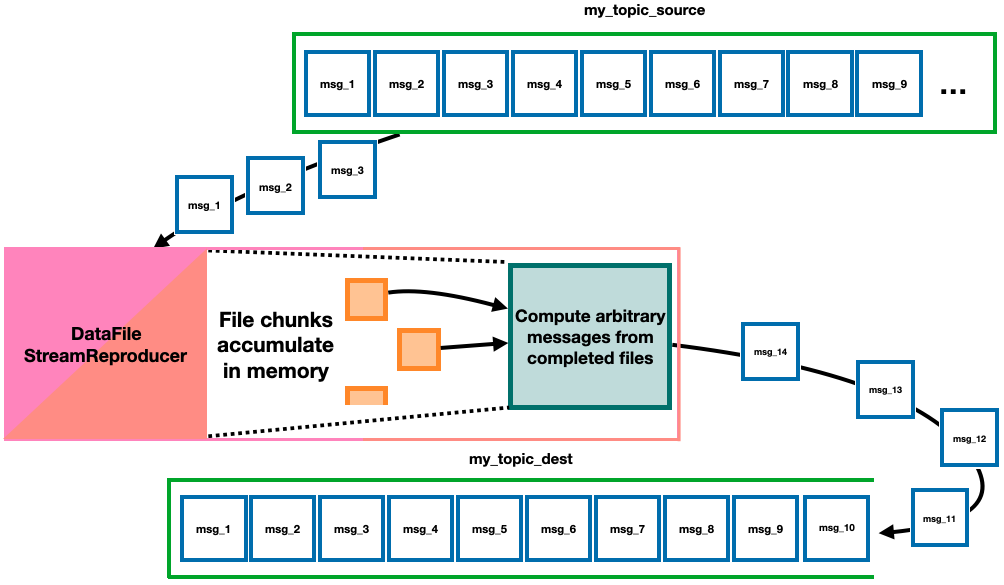
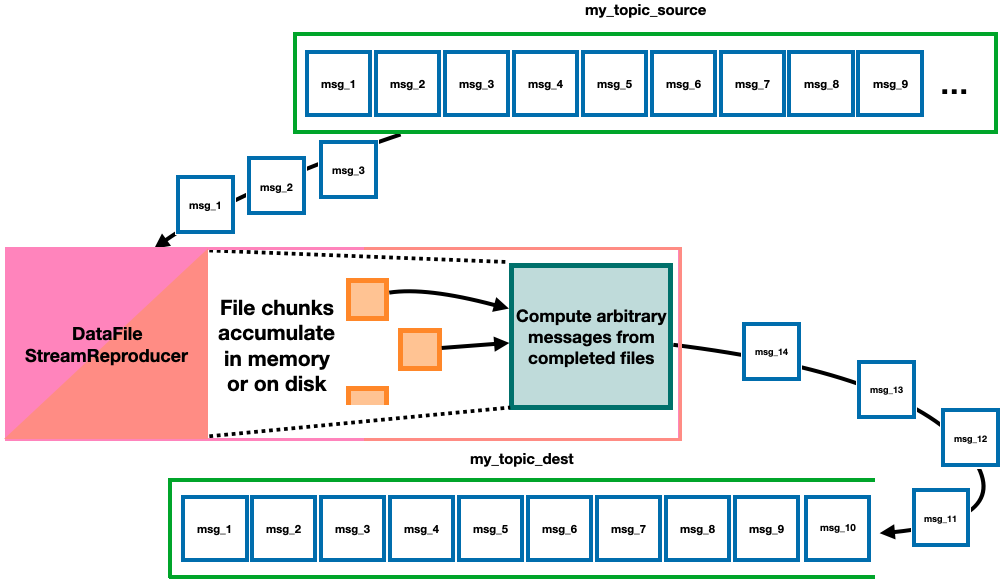
a bunch of documentation updates for the new program

diff --git a/openmsistream/girder/girder_upload_stream_processor.py b/openmsistream/girder/girder_upload_stream_processor.py
@@ -10,7 +10,40 @@ from ..utilities.config import RUN_CONST
 
 class GirderUploadStreamProcessor(DataFileStreamProcessor):
     """
-    A stream processor that adds downloaded files to folders in a Girder collection
+    A class to reconstruct data files read as messages from a topic, hold them in memory
+    or on disk, and upload them to a Girder instance when all of their messages have been
+    received
+
+    :param girder_api_url: URL of the REST API endpoint for the Girder instance to which
+        files should be uploaded
+    :type girder_api_url: str
+    :param girder_api_key: API key for interacting with the Girder instance
+    :type girder_api_key: str
+    :param config_file: Path to the config file to use in defining the Broker connection
+        and Consumers
+    :type config_file: :class:`pathlib.Path`
+    :param topic_name: Name of the topic to which the Consumers should be subscribed
+    :type topic_name: str
+    :param girder_root_folder_ID: ID of an existing Girder Folder relative to which
+        files should be uploaded. Additional Folders will be created within this root
+        Folder to replicate the original Producer-side subdirectory structure.
+    :type girder_root_folder_ID: str
+    :param collection_name: Name of the Girder Collection to which files should be
+        uploaded. Only used if `girder_root_folder_id` is not given.
+    :type collection_name: str
+    :param girder_root_folder_path: Path to the root Folder within which files should be
+        uploaded. Additional Folders will be created within this root Folder to replicate
+        the original Producer-side subdirectory structure. This argument is only used if
+        `girder_root_folder_id` is not provided. If a `collection_name` is given but this
+        argument is not, a Folder named after the topic will be created within the
+        Collection.
+    :type girder_root_folder_path: str
+    :param provider: If this argument is given, an extra "provider" metadata field with
+        the given value will be added to uploaded Files and Folders.
+    :type provider: str
+    :param filepath_regex: If given, only messages associated with files whose paths match
+        this regex will be consumed
+    :type filepath_regex: :type filepath_regex: :func:`re.compile` or None, optional
     """
 
     def __init__(
@@ -63,9 +96,19 @@ class GirderUploadStreamProcessor(DataFileStreamProcessor):
 
     def _process_downloaded_data_file(self, datafile, lock):
         """
-        Upload the downloaded data file to the Girder instance
+        Upload a fully-reconstructed file to the Girder instance, creating Folders as
+        necessary to preserve original subdirectory structure. Also adds metadata to Files
+        and Folders listing the version of OpenMSIStream that's running and the name of
+        the topic from which files are being consumed.
 
-        returns None if processing was successful, an Exception otherwise
+        :param datafile: A :class:`~DownloadDataFile` object that has received
+            all of its messages from the topic
+        :type datafile: :class:`~DownloadDataFile`
+        :param lock: Acquiring this :class:`threading.Lock` object ensures that only one instance
+            of :func:`~_process_downloaded_data_file` is running at once
+        :type lock: :class:`threading.Lock`
+
+        :return: None if upload was successful, a caught Exception otherwise
         """
         # Create the nested subdirectories that should hold this file
         parent_id = self.__root_folder_id
@@ -226,6 +269,9 @@ class GirderUploadStreamProcessor(DataFileStreamProcessor):
 
     @classmethod
     def get_command_line_arguments(cls):
+        """
+        Return the names of arguments needed to run the program from the command line
+        """
         superargs, superkwargs = super().get_command_line_arguments()
         ret_args = [
             "girder_api_url",
@@ -241,7 +287,14 @@ class GirderUploadStreamProcessor(DataFileStreamProcessor):
     @classmethod
     def run_from_command_line(cls, args=None):
         """
-        Run the stream-processed analysis code from the command line
+        Run a :class:`~GirderUploadStreamProcessor` directly from the command line
+
+        Calls :func:`~DataFileStreamProcessor.process_files_as_read` on a :class:`~GirderUploadStreamProcessor`
+        defined by command line (or given) arguments
+
+        :param args: the list of arguments to send to the parser instead of getting them
+            from sys.argv
+        :type args: list, optional
         """
         # make the argument parser
         parser = cls.get_argument_parser()
@@ -264,9 +317,8 @@ class GirderUploadStreamProcessor(DataFileStreamProcessor):
         )
         # start the processor running
         msg = (
-            f"Listening to the {args.topic_name} topic for files to upload to the "
-            f"{args.collection_name} collection using the Girder API at "
-            f"{args.girder_api_url}"
+            f"Listening to the {args.topic_name} topic for files to upload to "
+            f"Girder using the API at {args.girder_api_url}"
         )
         girder_uploader.logger.info(msg)
         (
@@ -285,13 +337,13 @@ class GirderUploadStreamProcessor(DataFileStreamProcessor):
         msg = (
             f"{n_read} total messages were consumed, {n_msgs_procd} messages were "
             f"successfully processed, and {n_files_procd} files were uploaded "
-            f"to the {args.collection_name} Girder collection"
+            f"to Girder"
         )
         girder_uploader.logger.info(msg)
         if len(procd_fps) > 0:
             msg = (
                 f"{n_files_procd} file{' was' if n_files_procd==1 else 's were'} "
-                f"successfully uploaded to the {args.collection_name} Girder collection."
+                f"successfully uploaded to Girder."
                 f"\nUploaded filepaths (up to {cls.N_RECENT_FILES} most recent):\n\t"
             )
             msg += "\n\t".join([str(fp) for fp in procd_fps])

diff --git a/openmsistream/s3_buckets/s3_transfer_stream_processor.py b/openmsistream/s3_buckets/s3_transfer_stream_processor.py
@@ -11,8 +11,9 @@ from .s3_data_transfer import S3DataTransfer
 
 class S3TransferStreamProcessor(DataFileStreamProcessor):
     """
-    A class to reconstruct data files read as messages from a topic, hold them in memory,
-    and transfer them to an S3 bucket when all of their messages have been received
+    A class to reconstruct data files read as messages from a topic, hold them in memory
+    or on disk, and transfer them to an S3 bucket when all of their messages have been
+    received
 
     :param bucket_name: Name of the S3 bucket into which reconstructed files should be transferred
     :type bucket_name: str
@@ -55,9 +56,9 @@ class S3TransferStreamProcessor(DataFileStreamProcessor):
         in the bucket match its original hash from disk.
         Logs a warning if the file hashes don't match.
 
-        :param datafile: A :class:`~DownloadDataFileToMemory` object that has received
+        :param datafile: A :class:`~DownloadDataFile` object that has received
             all of its messages from the topic
-        :type datafile: :class:`~DownloadDataFileToMemory`
+        :type datafile: :class:`~DownloadDataFile`
         :param lock: Acquiring this :class:`threading.Lock` object ensures that only one instance
             of :func:`~_process_downloaded_data_file` is running at once
         :type lock: :class:`threading.Lock`

diff --git a/openmsistream/data_file_io/actor/data_file_stream_processor.py b/openmsistream/data_file_io/actor/data_file_stream_processor.py
@@ -15,9 +15,9 @@ class DataFileStreamProcessor(DataFileStreamHandler, DataFileChunkProcessor, ABC
     into memory and perform some operation(s) when entire files are available.
     This is a base class that cannot be instantiated on its own.
 
-    :param config_path: Path to the config file to use in defining the Broker connection
+    :param config_file: Path to the config file to use in defining the Broker connection
         and Consumers
-    :type config_path: :class:`pathlib.Path`
+    :type config_file: :class:`pathlib.Path`
     :param topic_name: Name of the topic to which the Consumers should be subscribed
     :type topic_name: str
     :param output_dir: Path to the directory where the log and csv registry files should be kept

diff --git a/openmsistream/__init__.py b/openmsistream/__init__.py
@@ -10,6 +10,7 @@ from .data_file_io.actor.data_file_download_directory import DataFileDownloadDir
 from .data_file_io.actor.data_file_stream_processor import DataFileStreamProcessor
 from .data_file_io.actor.data_file_stream_reproducer import DataFileStreamReproducer
 from .s3_buckets.s3_transfer_stream_processor import S3TransferStreamProcessor
+from .girder.girder_upload_stream_processor import GirderUploadStreamProcessor
 
 __all__ = [
     "UploadDataFile",
@@ -18,6 +19,7 @@ __all__ = [
     "DataFileStreamProcessor",
     "DataFileStreamReproducer",
     "S3TransferStreamProcessor",
+    "GirderUploadStreamProcessor",
 ]
 
 # If running on Windows, try to pre-load the librdkafka.dll file

diff --git a/openmsistream/data_file_io/actor/data_file_stream_reproducer.py b/openmsistream/data_file_io/actor/data_file_stream_reproducer.py
@@ -19,9 +19,9 @@ class DataFileStreamReproducer(DataFileStreamHandler, DataFileChunkReproducer, A
 
     This is a base class that cannot be instantiated on its own.
 
-    :param config_path: Path to the config file to use in defining the Broker connection,
+    :param config_file: Path to the config file to use in defining the Broker connection,
         Consumers, and Producers
-    :type config_path: :class:`pathlib.Path`
+    :type config_file: :class:`pathlib.Path`
     :param consumer_topic_name: Name of the topic to which the Consumers should be subscribed
     :type consumer_topic_name: str
     :param producer_topic_name: Name of the topic to which the Producer should produce

diff --git a/openmsistream/metadata_extraction/metadata_json_reproducer.py b/openmsistream/metadata_extraction/metadata_json_reproducer.py
@@ -16,9 +16,9 @@ class MetadataJSONReproducer(DataFileStreamReproducer, ABC):
 
     This is a base class that cannot be instantiated on its own.
 
-    :param config_path: Path to the config file to use in defining the Broker connection,
+    :param config_file: Path to the config file to use in defining the Broker connection,
         Consumers, and Producers
-    :type config_path: :class:`pathlib.Path`
+    :type config_file: :class:`pathlib.Path`
     :param consumer_topic_name: Name of the topic to which the Consumer(s) should be subscribed
     :type consumer_topic_name: str
     :param producer_topic_name: Name of the topic to which the Producer(s) should produce

diff --git a/test/test_scripts/test_girder_upload_stream_processor.py b/test/test_scripts/test_girder_upload_stream_processor.py
@@ -2,7 +2,7 @@
 import time, subprocess, unittest
 from hashlib import sha512
 import requests, docker, girder_client  # pylint: disable=wrong-import-order
-from openmsistream.girder import GirderUploadStreamProcessor
+from openmsistream import GirderUploadStreamProcessor
 from config import TEST_CONST  # pylint: disable=import-error, wrong-import-order
 
 # pylint: disable=import-error, wrong-import-order

diff --git a/docs/source/user_info/main_programs/girder_upload_stream_processor.rst b/docs/source/user_info/main_programs/girder_upload_stream_processor.rst
@@ -1,0 +1,57 @@
+===========================
+GirderUploadStreamProcessor
+===========================
+
+.. image:: ../../images/girder_upload_stream_processor.png
+   :alt: GirderUploadStreamProcessor
+   :scale: 80 %
+
+`Girder <https://girder.readthedocs.io/en/latest/index.html>`_ is a free and open source platform designed to simply implement data organization and dissemination, user management and authentication, and authorization management as a web-based standalone application or backend for other services. The NSF-funded Data Infrastructure Building Block initiative `Whole Tale <https://wholetale.org/>`_, for example, uses a Girder backend for data storage and access management.
+
+The ``GirderUploadStreamProcessor`` module reads messages from a topic to build up data files in memory or on disk, and then uploads complete files to Folders in a Girder instance using requests to the Girder REST API. If files were originally produced using a ``DataFileUploadDirectory``, then the subdirectory structure relative to the root directory will be preserved relative to a configurable Folder in Girder. Metadata fields are added to Files and Folders specifying the version tag of OpenMSIStream that's running and the name of the topic from which files are being consumed.
+
+The :class:`~.GirderUploadStreamProcessor` is a specific type of :class:`~.DataFileStreamProcessor`.
+
+Running the program
+-------------------
+
+To run the program in the most common use case, enter the following command and arguments::
+
+    GirderUploadStreamProcessor [girder_api_url] [girder_api_key] --config [config_file_path] --topic_name [topic_name] --girder_root_folder_id [root_folder_id]
+
+where:
+
+* ``[girder_api_url]`` is the URL of a Girder instance's REST API endpoint
+* ``[girder_api_key]`` is an API key generated for interacting with that Girder instance
+* ``[config_file_path]`` is the path to a config file including at least ``[broker]`` and ``[consumer]`` sections 
+* ``[topic_name]`` is the name of the topic to subscribe to/consume messages from, and
+* ``[girder_root_folder_id]`` is the model ID of the Folder in Girder relative to which files should be uploaded. If the desired root folder doesn't already exist in the Girder instance or its ID is unknown, the ``--collection_name`` and/or ``--girder_root_folder_path`` arguments can be used instead to specify a Collection and the path to a Folder that will be created if they don't already exist.
+
+Other options for running the code include:
+
+#. Changing the number of parallel threads: add the ``--n_threads [threads]`` argument where ``[threads]`` is the desired number of parallel threads to use (and, also, the number of consumers used in the group). The default is 2 threads/consumers; increasing this number may give Kafka warnings or errors depending on how many consumers can be subscribed to a particular topic (generally you can use as many threads as there are partitions to the topic).
+#. Changing the consumer group ID: add the ``--consumer_group_id [group_id]`` argument where ``[group_id]`` is the string to use for the Consumer group ID. The default creates a new ID every time, but if you would like to keep track of which messages have already been consumed you can choose a consistent group ID to use every time, and only messages whose offsets haven't been comitted yet will be consumed. Please see the `documentation for Kafka Consumers here <https://docs.confluent.io/platform/current/clients/consumer.html>`_ for more details if consumer offset commits are unfamiliar to you.
+#. Changing which files get processed: add the ``--download_regex [regex]`` argument where ``[regex]`` is a regular expression string that matches the relative filepath of every file you would like to process. Messages from files whose relative paths don't match the regex will be read from the topic but skipped.
+#. Putting the logs and registry .csv files in a custom location: add the ``--output_dir [output_dir]`` argument, where ``[output_dir]`` is the path to a directory where the output should be saved (it will be created if it doesn't exist yet). By default the output is written to a directory called ``GirderUploadStreamProcessor_output`` in the current working directory.
+#. Changing how files are downloaded: add the ``--mode [mode]`` argument, where ``[mode]`` is "``memory``", "``disk``", or "``both``". In "memory" mode (the default), files are reconstructed only in memory before being uploaded, which is fastest. In "disk" mode, files are instead written to disk with the output directory as their root directory, which is useful if the reconstructed files are too large to hold more than one in memory at once. In "both" mode, files are written to disk and held in memory, which is useful to perform transfers quickly while still writing out local copies of files.
+
+To see other optional command line arguments, run ``GirderUploadStreamProcessor -h``.
+
+Interacting with the program
+----------------------------
+
+While the main process is running, a line with a "." character will be printed out periodically to indicate the process is still alive. At any time, typing "check" or "c" into the console will print a message specifying how many total messages have been read and how many files have been uploaded to Girder. The processes can be shut down at any time by typing "quit" or "q" into the console.
+
+Consumer offset commits
+-----------------------
+
+OpenMSIStream manually commits Consumer offsets to guarantee that every message is received "at least once." This guarantee is only valid if ``enable.auto.commit = False`` is set in the ``[consumer]`` section of the config file used. If this parameter isn't set to enable the "at least once" guarantee a warning will be logged, and it's possible that some messages may be dropped or consumed multiple times from the topic.
+
+Restarting the program
+----------------------
+
+Using a ``GirderUploadStreamProcessor`` (and any other program whose underlying class inherits from :class:`~.DataFileStreamProcessor`) is robust if the code crashes and can be restarted. The output directory includes a ``LOGS`` subdirectory, which holds a log file as well as a file called "``consuming_from_[name_of_topic]_by_[consumer_group_ID]_in_progress.csv``" and one or several files with the pattern "``processed_from_[name_of_topic]_by_[consumer_group_ID]*.csv``". The .csv files are special datatable files (they can be read as :class:`~.utilities.DataclassTable` objects) that list the processing status of each recognized file and information about files that have been successfully uploaded, respectively. To decrease latency, there may be several files listing the processing results: one per thread, capped at 1,000 entries each. When the program is shut down normally or restarted, these files will be automatically concatenated. You can also concatenate them by hand when the program is not running.
+
+The status of each file is updated atomically upon receipt of each message. If any files fail to be uploaded during a run, or the program quits or crashes before all the messages for a file are received, a new run of ``GirderUploadStreamProcessor`` restarted with the same consumer group ID and configs will restart the consumers from the beginning of the topic and read only messages from those failed files until they catch up to where they would be otherwise. As long as all messages for the failed files still exist in the same topic, restarting will select and try uploading them again.
+
+If the same file is produced multiple times to the same topic, it will appear multiple times in the "successfully_processed" file. Files uploaded to different topics from the same directory, or consumed by a group of consumers with a different group ID, will have their own independent .csv files. The files are atomic and accurate to within 5 seconds. You can copy and then browse them while the code is running to check which files have been uploaded or recognized.

diff --git a/docs/source/dev_info/ci_testing.rst b/docs/source/dev_info/ci_testing.rst
@@ -22,7 +22,7 @@ There are also a few options you can add to ``run_all_tests.py`` if you only wan
 #. Add the ``--no_script_tests`` flag to skip the tests in "test_scripts" entirely, OR
 #. Add the ``--no_kafka`` flag to skip running tests that need to communicate with the Kafka broker. Adding this flag automatically **skips any test methods whose names end with "kafka"**; you will see that they were skipped at the end of the output. Adding this flag also runs tests with some environment variables un-set to ensure that these tests are truly independent of communication with a Kafka broker.
 #. Add the ``--test_regex [regex]`` option to skip any tests whose function names aren't matched to the ``[regex]`` regular expression
-#. Add the ``--local_broker`` flag to run tests using a local Kafka broker running in Docker instead of a third party broker. Including this flag automatically `starts up <https://github.com/openmsi/openmsistream/blob/main/test/start_local_broker.sh#L5>`_ the broker and `creates the topics needed <https://github.com/openmsi/openmsistream/blob/main/test/create_local_testing_topics.sh#L5-L29>`_ before running the tests, and it `stops the broker <https://github.com/openmsi/openmsistream/blob/main/test/stop_local_broker.sh#L5>`_ running when the tests complete. Adding this flag assumes that Docker is installed and that the Docker daemon is running. 
+#. Add the ``--local_broker`` flag to run tests using a local Kafka broker running in Docker instead of a third party broker. Including this flag automatically `starts up <https://github.com/openmsi/openmsistream/blob/main/test/start_local_broker.sh#L5>`_ the broker before running the tests, and it `stops the broker <https://github.com/openmsi/openmsistream/blob/main/test/stop_local_broker.sh#L5>`_ running when the tests complete. Adding this flag assumes that Docker is installed and that the Docker daemon is running. If you want to separate starting up and stopping the local Kafka broker from running the tests, you can run the script with the ``--setup_local_broker`` first, run your tests adding the ``--skip_broker_teardown`` flag, and run the script with the ``--teardown_local_broker`` flag when you're ready to stop running the local broker.
 #. Add the ``--failfast`` flag to stop executing the script early if any individual test(s) fail. Normally all tests are run regardless of how many fail, but including this flag will stop the run as soon as any test fails.
 
 **NOTE:** If you are running the ``run_all_tests.py`` script interactively on a Linux system with ``systemd`` installed, some of the tests will temporarily install code as daemons. You should therefore activate sudo privileges before running the script, with::
@@ -31,12 +31,14 @@ There are also a few options you can add to ``run_all_tests.py`` if you only wan
 
 or similar.
 
+**NOTE ALSO:** The CI test for the ``GirderUploadStreamProcessor`` uses a local Girder instance with a MongoDB backend set up using Docker Compose. If Docker is not running, that test will be skipped.
+
 CircleCI website
 ----------------
 
 On the CircleCI website you can manually run tests on any branch you'd like. Tests will also automatically run for each commit on every branch, and must pass to merge any pull requests into the main branch. The configuration for CircleCI is in the `.circleci/config.yml file in the root directory of the repository <https://github.com/openmsi/openmsistream/blob/main/.circleci/config.yml>`_. Tests on CircleCI use the same environment as the official public `Docker image <https://hub.docker.com/r/openmsi/openmsistream>`_.
 
-Running tests successfully on CircleCI requires that the Project on CircleCI has environment variables for the test broker username and password registered within it, as well as environment variables to allow access to the openmsi DockerHub organization, and environment variables to connect to the S3 bucket used for testing.
+Running tests successfully on CircleCI requires that the Project on CircleCI has environment variables to allow access to the openmsi DockerHub organization, and environment variables to connect to the S3 bucket used for testing.
 
 Rebuilding static test data
 ---------------------------
@@ -54,7 +56,7 @@ Regardless of which broker solution you use, though, you'll next need to add an 
 
 If you use Confluent Cloud, or if you add authentication to your self-managed broker, you'll also need to add environment variables called ``KAFKA_TEST_CLUSTER_USERNAME`` and ``KAFKA_TEST_CLUSTER_PASSWORD`` to hold the authentication username and password, respectively. For brokers on Confluent Cloud, you can add authentication by creating a new API key under "API keys" on the website, and set the environment variable values to the username and password of the api key.
 
-Then, you'll need to create the topics used in running the tests. You can add topics using the Kafka CLI, or under the ``Topics`` section for your cluster on the Confluent Cloud website. The following topics should be created, ideally with 2 partitions each, and it's recommended to set the cleanup policy to "delete" with a max retention time of 1 hour to keep the topics mostly empty for testing purposes.
+If you're using Confluent Cloud, you'll also need to create the topics used in running the tests. You can add topics using the Kafka CLI, or under the ``Topics`` section for your cluster on the Confluent Cloud website. The following topics should be created, ideally with 2 partitions each, and it's recommended to set the cleanup policy to "delete" with a max retention time of 1 hour to keep the topics mostly empty for testing purposes.
 
     #. ``test``
     #. ``test_data_file_directories``
@@ -66,6 +68,7 @@ Then, you'll need to create the topics used in running the tests. You can add to
     #. ``test_metadata_extractor_source``
     #. ``test_metadata_extractor_dest``
     #. ``test_plots_for_tutorial``
+    #. ``test_girder_upload_stream_processor``
 
 The ``test_oms_encrypted`` and ``test_data_file_stream_processor_encrypted`` topics hold messages encrypted with KafkaCrypto; those topics each need three additional "key-passing" topics called ``[topic_name].keys``, ``[topic_name].reqs``, and ``[topic_name].subs``. These additional topics can have only one partition each, and can use the "compact" cleanup policy (they will not end up storing a huge amount of data). 
 

diff --git a/docs/source/introduction/tutorials.rst b/docs/source/introduction/tutorials.rst
@@ -4,7 +4,7 @@ Tutorials
 
 The hands-on examples described in this section will walk through some of the key functionality of the OpenMSIStream package. After setting up access to a Kafka cluster, creating a topic to use for testing, and downloading some specific example data, you'll use a :doc:`DataFileUploadDirectory <../user_info/main_programs/data_file_upload_directory>` producer to upload the example files from your local machine to the topic. You'll then use a :doc:`DataFileDownloadDirectory <../user_info/main_programs/>` consumer to reconstruct the files to your local machine from their chunks stored on the topic.
 
-More advanced tutorials explore other OpenMSIStream functionality by setting up additional types of consumers on your local machine. An example :doc:`DataFileStreamProcessor <../user_info/base_classes/data_file_stream_processor>` can create simple plots from the data in the files on the topic.  An example :doc:`MetadataJSONReproducer <../user_info/base_classes/metadata_json_reproducer>` can extract the metadata blocks of the example files and produce those blocks to a second topic as JSON-formatted strings. An :doc:`S3TransferStreamProcessor <../user_info/main_programs/s3_transfer_stream_processor>` can reconstruct the files in an S3 bucket instead of locally on disk (after some more setup).
+More advanced tutorials explore other OpenMSIStream functionality by setting up additional types of consumers on your local machine. An example :doc:`DataFileStreamProcessor <../user_info/base_classes/data_file_stream_processor>` can create simple plots from the data in the files on the topic.  An example :doc:`MetadataJSONReproducer <../user_info/base_classes/metadata_json_reproducer>` can extract the metadata blocks of the example files and produce those blocks to a second topic as JSON-formatted strings. A :doc:`GirderUploadStreamProcessor <../user_info/main_programs/girder_upload_stream_processor>` can be used to upload files in a topic to a Girder instance. An :doc:`S3TransferStreamProcessor <../user_info/main_programs/s3_transfer_stream_processor>` can reconstruct the files in an S3 bucket (after some more setup).
 
 Initial setup
 =============
@@ -16,9 +16,13 @@ Access to a Kafka broker
 
 To begin, you'll need access to a Kafka broker. That broker can be running locally or on a server that you have access to (possibly in Docker), or on `Confluent Cloud <https://confluent.cloud/>`_, which provides Kafka as a managed service. If ACLs are defined for your broker, you will need to be able to authenticate to it using plaintext SASL authentication (the default for Confluent Cloud). 
 
-You will also need to create a topic on that broker to use for testing, called "``openmsistream_tutorial_data``" (if you use a different name just replace it in the commands shown below). The default settings are fine for a single test, but if you'd like you can adjust the retention times to be an hour or less so that the contents of the testing topics will get flushed out regularly and you can work through the tutorial repeatedly without reading previously-produced data.
+You will also need to create topics on that broker to use for testing, called "``openmsistream_tutorial_data``" and "``openmsistream_tutorial_metadata``" (if you use different names just replace them in the commands shown). The default settings are fine for a single test, but if you'd like you can adjust the retention times to be an hour or less so that the contents of the testing topics will get flushed out regularly and you can work through the tutorial repeatedly without reading previously-produced data.
 
-The OpenMSIStream GitHub repository includes a `Docker compose .yaml file <https://github.com/openmsi/openmsistream/blob/main/test/local-kafka-broker-docker-compose.yml>`_ that you can use to set up a very simple single-node broker on your local machine (if you have Docker installed). To start up the broker, run `the command shown in the "start broker" shell script <https://github.com/openmsi/openmsistream/blob/main/test/start_local_broker.sh#L5>`_. After starting the local broker, you can add topics using the Kafka CLI, like what's shown in the `"create topics" shell script <https://github.com/openmsi/openmsistream/blob/main/test/create_local_testing_topics.sh#L5>`_. You can stop and delete the broker using `the command in the "stop broker" shell script <https://github.com/openmsi/openmsistream/blob/33-use-local-kafka-broker/test/stop_local_broker.sh#L5>`_.
+The OpenMSIStream GitHub repository includes a `Docker compose .yml file <https://github.com/openmsi/openmsistream/blob/main/test/local-kafka-broker-docker-compose.yml>`_ that you can use to set up a very simple single-node broker on your local machine (if you have Docker installed). To start up the broker, run `the command shown in the "start broker" shell script <https://github.com/openmsi/openmsistream/blob/main/test/start_local_broker.sh#L5>`_. After starting the local broker, you can add topics using the Kafka CLI with commands like::
+
+    docker exec local_kafka_broker kafka-topics --bootstrap-server localhost:9092 --create --partitions 2 --replication-factor 1 --topic [topic_name]
+
+You can stop and delete the broker using `the command in the "stop broker" shell script <https://github.com/openmsi/openmsistream/blob/main/test/stop_local_broker.sh#L5>`_.
 
 Setting environment variables
 -----------------------------
@@ -77,6 +81,7 @@ The pages below contain some more hands-on examples of different ways to consume
 .. toctree::
    :maxdepth: 1
 
+   tutorials/girder_upload
    tutorials/s3_transfer
    tutorials/creating_plots
    tutorials/extracting_metadata

diff --git a/docs/source/user_info/base_classes/data_file_stream_reproducer.rst b/docs/source/user_info/base_classes/data_file_stream_reproducer.rst
@@ -10,7 +10,7 @@ A DataFileStreamReproducer is a base class that can be extended to compute arbit
 
 The main function that users will need to write to instantiate DataFileStreamReproducer-type classes is :func:`openmsistream.DataFileStreamReproducer._get_processing_result_message_for_file`, which will compute and return the "processing result message" for each reconstructed data file as they become available. Running the class using the :class:`~.utilities.Runnable` workflow also requires writing a :func:`openmsistream.utilities.Runnable.run_from_command_line` function.
 
-The first argument to the :func:`openmsistream.DataFileStreamReproducer._get_processing_result_message_for_file` function is an :class:`~.data_file_io.DownloadDataFile` object holding a file that has been fully reconstructed from chunks in a topic. The content of the file can be accessed using its :attr:`bytestring` attribute in "memory" or "both" mode, or by reading from the :attr:`full_filepath` attribute in "disk" or "both" mode. Using the bytestring is fast, but holds the entire file contents in memory until their messages are successfully produced to the destination topic. Reading the file from disk is slower, but can produce a much smaller memory footprint depending on how the reading is performed from disk. The second argument to that function is a :class:`threading.Lock` object that can be used to ensure only one instance of the function is running at a time even though multiple threads may be running, in case computing the result requires modifying a shared resource. The function should return a :class:`~.data_file_io.ReproducerMessage` object so that the Producer callback arguments are already defined. If computing the message fails, an explanatory warning or error should be logged in :func:`openmsistream.DataFileStreamReproducer._get_processing_result_message_for_file` and None should be returned.
+The first argument to the :func:`openmsistream.DataFileStreamReproducer._get_processing_result_message_for_file` function is an :class:`~.data_file_io.DownloadDataFile` object holding a file that has been fully reconstructed from chunks in a topic. The content of the file can be accessed using its :attr:`bytestring` attribute in any mode, or by reading from the :attr:`full_filepath` attribute in "disk" or "both" mode. Reading the file from disk is slower, but can produce a much smaller memory footprint depending on how the reading is performed from disk. The second argument to that function is a :class:`threading.Lock` object that can be used to ensure only one instance of the function is running at a time even though multiple threads may be running, in case computing the result requires modifying a shared resource. The function should return a :class:`~.data_file_io.ReproducerMessage` object so that the Producer callback arguments are already defined. If computing the message fails, an explanatory warning or error should be logged in :func:`openmsistream.DataFileStreamReproducer._get_processing_result_message_for_file` and None should be returned.
 
 The :func:`openmsistream.utilities.Runnable.run_from_command_line` function is a class method that should be written like a script to run the class end-to-end. In that function, a user can call :func:`openmsistream.utilities.Runnable.get_argument_parser` to get the command-line argument parser to use. If a user would like to add additional command line arguments for the extended class they can implement the :func:`openmsistream.utilities.Runnable.get_command_line_arguments` class method. Command line arguments already defined include the config file, consumer and producer topic names/numbers of threads, the download regex, and output location; they can be picked up by calling :func:`super().get_command_line_arguments` in the extended class.
 

diff --git a/docs/source/introduction/tutorials/girder_upload.rst b/docs/source/introduction/tutorials/girder_upload.rst
@@ -1,0 +1,26 @@
+=================================================
+Uploading to Girder (GirderUploadStreamProcessor)
+=================================================
+
+This tutorial will walk through setting up a Consumer to read the test files uploaded to the ``openmsistream_tutorial_data`` topic and transfer them to Girder instance. You'll need access to a Girder instance in order to work through this example; the tutorial will use a local Girder instance running in Docker, but all you need is the URL of the REST API endpoint and an API key.
+
+If you haven't done the "round trip" :ref:`tutorial <"Round trip" tutorial>` yet, or if the messages produced during that tutorial no longer exist on the ``openmsistream_tutorial_data`` topic, you should go back and produce the test files to that topic. Then activate the ``openmsi`` Conda environment (or keep it activated).
+
+To set up a local Girder instance using a local MongoDB backend, you can use the `Docker compose .yml file <https://github.com/openmsi/openmsistream/blob/main/test/local-girder-docker-compose.yml>`_ in the OpenMSIStream repository. With the local instance running you can then create a new admin User and API key, using the `web API served at http://localhost:8080/api/v1 <http://localhost:8080/api/v1>`_ or external requests to the REST API at the same URL. 
+
+With the instance running, an admin account created with an API key, and the test data produced, you can run the consumer with the following command::
+
+    GirderUploadStreamProcessor [girder_api_url] [girder_api_key] --topic_name openmsistream_tutorial_data --collection_name "Girder Upload Test"
+
+where ``[girder_api_url]`` is the URL of your Girder instance's REST API endpoint ("``http://localhost:8080/api/v1``" if you're using the local Girder instance) and ``[girder_api_key]`` is the value of the API key you created. If you're using the local example broker (or another unauthenticated broker), add ``--config local_broker_test.config`` to the command.
+
+Starting that process running will create a directory called ``GirderUploadStreamProcessor_output``; inside that directory you'll find a ``LOGS`` subdirectory containing a log file and some :class:`~.utilities.DataclassTable` files. While the process runs, you can type ``c`` or ``check`` into the terminal to see how many messages have been received and how many files have been uploaded. You can shut the process down by typing ``q`` or ``quit`` into the terminal. 
+
+After the process quits, you should see all five test files listed in the ``GirderUploadStreamProcessor_output/LOGS/processed_from_openmsistream_tutorial_data_by_[consumerID].csv`` file, and you'll see the same subdirectory structure from your upload run reproduced inside the Girder instance, under a new collection named ``Girder Upload Test`` (if you're using the local Girder instance, you can browse it at the URL `http://localhost:8080 <http://localhost:8080/api/v1>`_).
+
+You can see the other options available for this example consumer by adding the ``-h`` flag to the command above.
+
+.. 
+    footnote below
+
+.. [#] The environment variables are referenced in the default configuration file used for this tutorial. You can also write your own configuration file to use if you'd rather not set environment variables; see :doc:`the page on configuration files <../user_info/config_files>` and :doc:`the page on the GirderUploadStreamProcessor <../user_info/main_programs/s3_transfer_stream_processor>` for more information.
